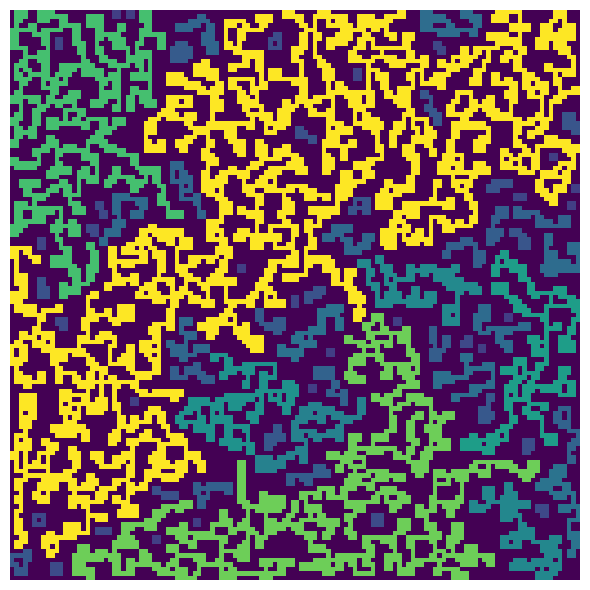
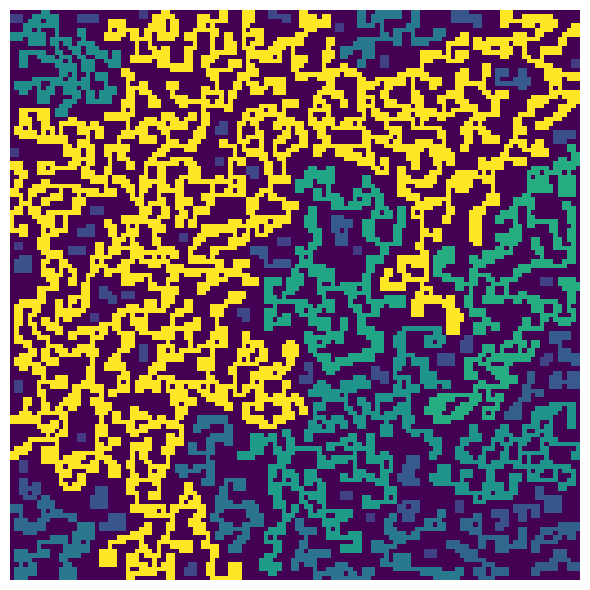
Add files via upload

diff --git a/agents.py b/agents.py
@@ -11,7 +11,7 @@ def neighbors(L):
         for m in range(L):
             w[n,m] = [x for x in v if n+x[0] >= 0 and n+x[0]<L and m+x[1]>=0 and m+x[1]<L]
     return w
-          
+
 if __name__ == "__main__":
     T = 1000 # max number of time steps
     L = 128 # lattice size
@@ -19,41 +19,40 @@ if __name__ == "__main__":
     a = (np.random.rand(L,L)<p).astype("int") # innitial populated lattice
     g = neighbors(L) #list of neighbors for each site
 
-    # animation, adjust interval for increasing the speed                          
+    # animation, adjust interval for increasing the speed
     fig, ax = plt.subplots(figsize=(5,5))
     ax.axis('off')
     ims,im = [],ax.imshow(a,animated=True)
-    ims.append([im])        
+    ims.append([im])
     x = np.array([i for i in range(L)])
-    y = np.array([j for j in range(L)])    
+    y = np.array([j for j in range(L)])
     for t in range(T):
         np.random.shuffle(x)
         np.random.shuffle(y)
-        flag = True        
+        flag = True
         for n in range(L):
             for m in range(L):
                 if a[x[n],y[m]] == 1:
                     w = [a[x[n]+c[0],y[m]+c[1]] for c in g[x[n],y[m]]]
-                    if np.sum(w) < 2:                        
+                    if np.sum(w) < 2:
                         u = [g[x[n],y[m]][i] for i in range(len(w)) if w[i] == 0]
                         if len(u) > 0:
                             (q,r) = u[np.random.randint(len(u))]
                             a[x[n]+q,y[m]+r] = a[x[n],y[m]]
                             a[x[n],y[m]] = 0
-                            flag = False                                                
+                            flag = False
         im = ax.imshow(a,animated=True)
         ims.append([im])
         if flag:
-            break                
+            break
     ani = animation.ArtistAnimation(fig,ims,interval=100,blit=True,repeat=False)
-    plt.show()       
+    plt.show()
     # show clusters
     fig = plt.figure(figsize=(5,5))
     w,n = label(a)
     area = sum_labels(a,w,index=np.arange(n+1)).astype("int")
-    plt.imshow(np.sqrt(area[w]),origin='lower',interpolation='nearest')
+    plt.imshow(np.sqrt(area[w]),interpolation='nearest')
     plt.axis("off")    
-    plt.tight_layout()          
+    plt.tight_layout()
     plt.show()
-    
-        
+
